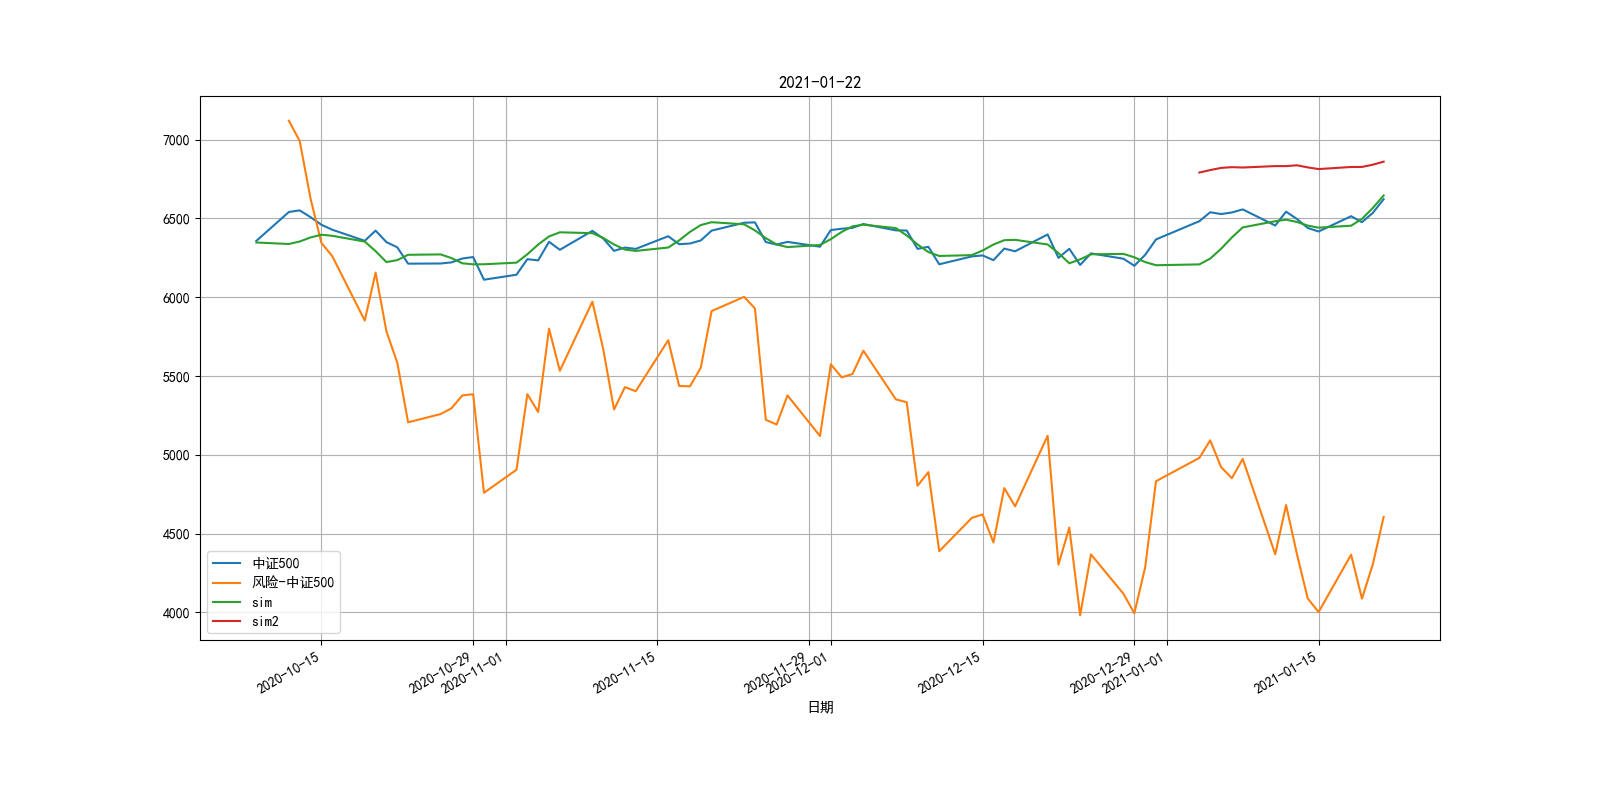
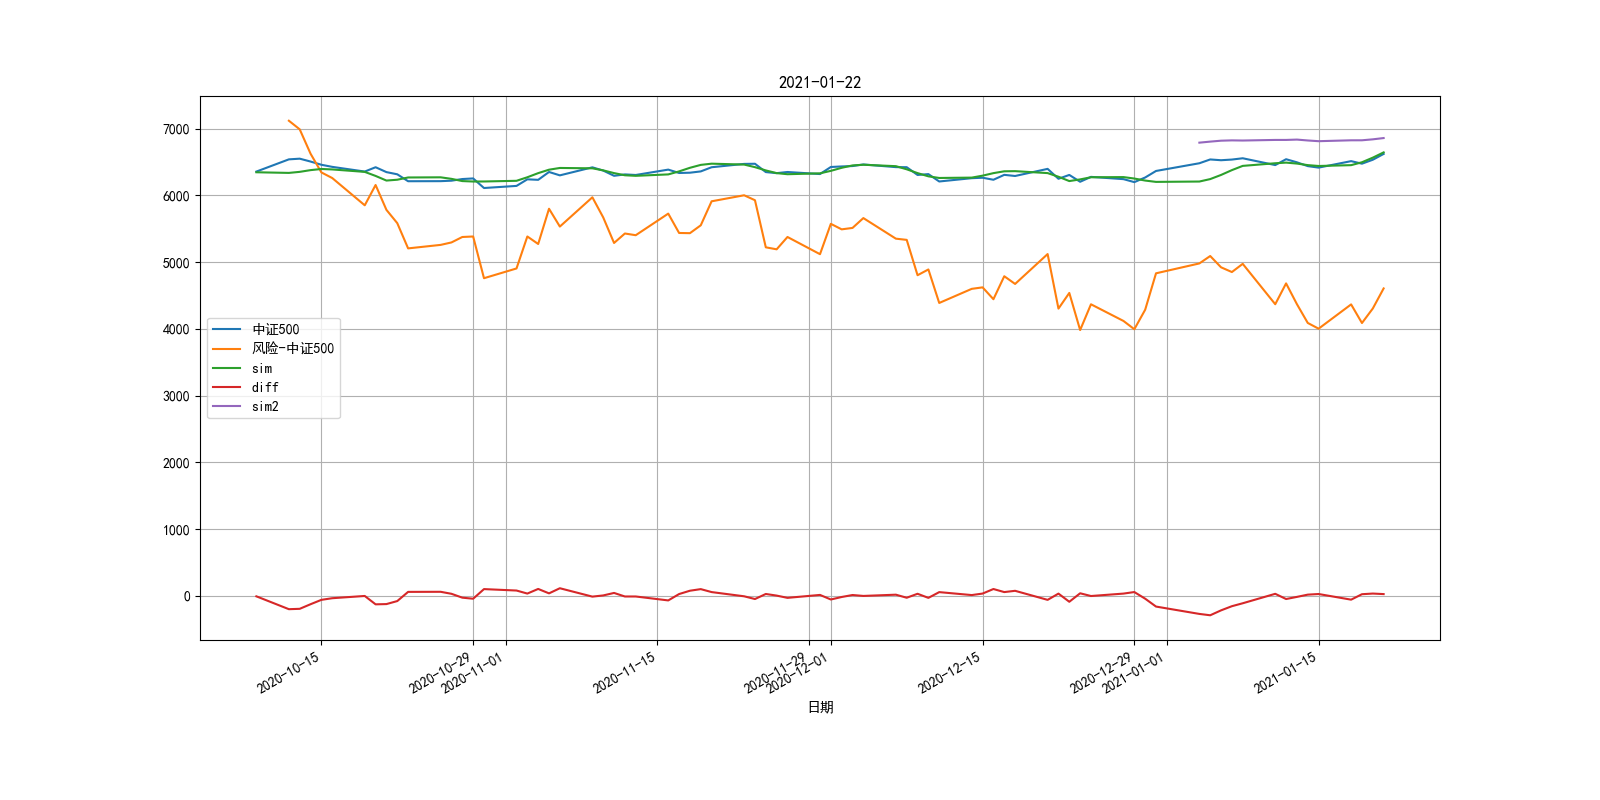
tuning training

diff --git a/src/study/history/model_trainer.py b/src/study/history/model_trainer.py
@@ -6,7 +6,7 @@ import pandas as pd
 import model_util as mu
 
 
-trade_days=400
+trade_days=1000
 
 def read_history(fname):
     df=pd.read_csv(fname+".csv",encoding="gbk")
@@ -33,7 +33,9 @@ feature_sse50["lev"]=leve_dfs[0]["融资余额(亿元)"]
 
 feature_sse50=feature_sse50.dropna()
 
-m_sse50=mu.train_model(feature_sse50["lev"],feature_sse50["收盘价"])
+train_level=3
+
+m_sse50=mu.train_model(feature_sse50["lev"],feature_sse50["收盘价"],level=train_level)
 
 feature_sse50["sim"]=m_sse50[1]
 feature_sse50.plot()
@@ -44,7 +46,7 @@ csi300=his_dfs[1][["收盘价"]][:trade_days]
 csi300["lev"]=leve_dfs[1]["融资余额(亿元)"]
 
 csi300=csi300.dropna()
-m_csi300=mu.train_model(csi300["lev"],csi300["收盘价"])
+m_csi300=mu.train_model(csi300["lev"],csi300["收盘价"],level=train_level)
 csi300["sim"]=m_csi300[1]
 csi300.plot()
 plt.show()

diff --git a/src/model_util.py b/src/model_util.py
@@ -15,8 +15,8 @@ class Liner_model:
 
 csi500=Liner_model(1.17576321, 3026.85026)
 
-def train_model(x, y):
-    P=np.polyfit(x,y,1)
+def train_model(x, y, level=1):
+    P=np.polyfit(x,y,level)
     print("model param",P)
     return (Liner_model(P[0],P[1]),np.polyval(P, x))
 

diff --git a/src/study/history/history_plot.py b/src/study/history/history_plot.py
@@ -6,7 +6,7 @@ import pandas as pd
 
 csi500 = pd.read_csv("000905.csv", encoding="gbk")
 csi300 = pd.read_csv("000300.csv", encoding="gbk")
- 
+
 len=min(len(csi300),len(csi500))
 # len=1000
  

diff --git a/src/study/realtime_v2.py b/src/study/realtime_v2.py
@@ -227,7 +227,7 @@ def draw_graph(risk=True, show_diff=True):
     
     
 
-draw_graph(show_diff=False)
+draw_graph(show_diff=True)
 
 # train_model()
 # draw_predict(80)
